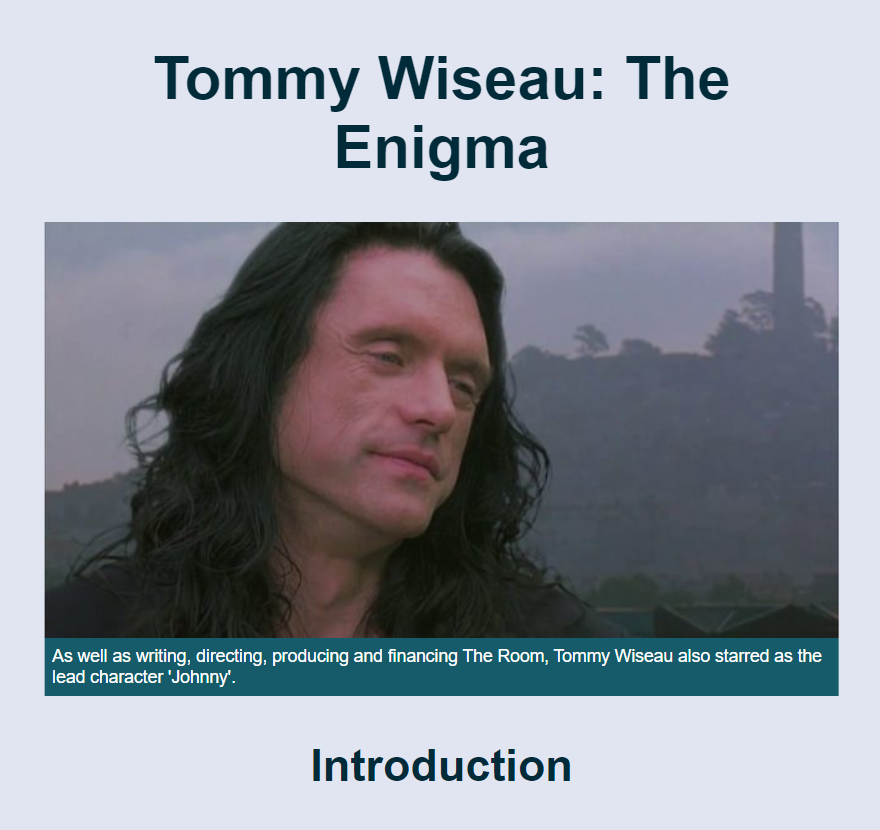
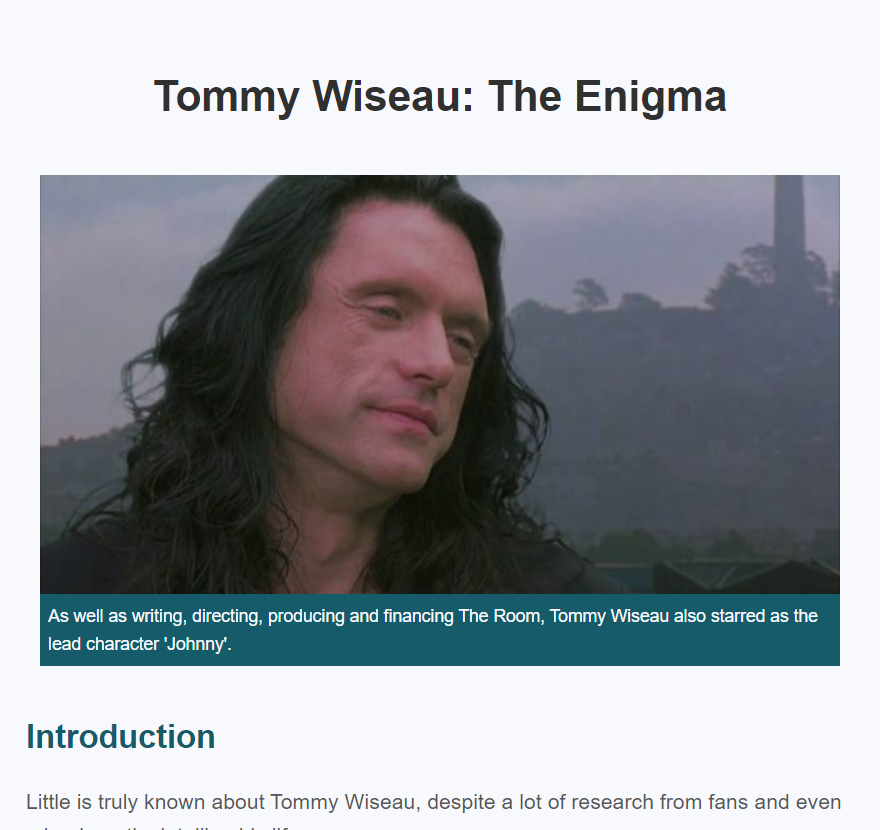
modified images and css

diff --git a/assets/stylesheets/main.css b/assets/stylesheets/main.css
@@ -103,6 +103,7 @@ h3 {
 img {
 	width: 100%;
 	max-width: 100%;
+	color: #004C54;
 }
 
 footer {
@@ -191,7 +192,7 @@ footer,
 
 
 
-@media screen and (min-width: 321px) {
+@media only screen and (min-width: 321px) {
 	
 	.project-box {
 		width: 280px;
@@ -208,7 +209,7 @@ footer,
 }
 
 
-@media screen and (min-width: 400px) {
+@media only screen and (min-width: 400px) {
 	nav.switch {
 		padding-bottom: 0;
 		height: 60px;
@@ -227,7 +228,7 @@ footer,
 }
 
 
-@media screen and (min-width: 321px) and (max-width: 645px) {
+@media only screen and (min-width: 321px) and (max-width: 645px) {
 
 	.KST,
 	.project-box {
@@ -239,7 +240,7 @@ footer,
 }
 
 
-@media screen and (min-width: 646px) {
+@media only screen and (min-width: 646px) {
 
 	header {
 		height: 0;
@@ -318,7 +319,7 @@ footer,
 }
 
 
-@media screen and (min-width: 700px) {
+@media only screen and (min-width: 700px) {
 
 	h1 {
 		font-size: 34px;
@@ -344,7 +345,7 @@ footer,
 }
 
 
-@media screen and (min-width: 749px) {
+@media only screen and (min-width: 749px) {
 	h1,
 	#intro p {
     	top: 29%;
@@ -352,7 +353,7 @@ footer,
 }
 
 
-@media screen and (min-width: 892px) {
+@media only screen and (min-width: 892px) {
 	h1,
 	#intro p {
     	top: 35%;
@@ -360,7 +361,7 @@ footer,
 }
 
 
-@media screen and (min-width: 1024px) {
+@media only screen and (min-width: 1024px) {
 
 	h1 {
 		font-size: 38px;
@@ -386,7 +387,7 @@ footer,
 }
 
 
-@media screen and (min-width: 1455px) {
+@media only screen and (min-width: 1455px) {
 	h1,
 	#intro p {
     	top: 44%;
